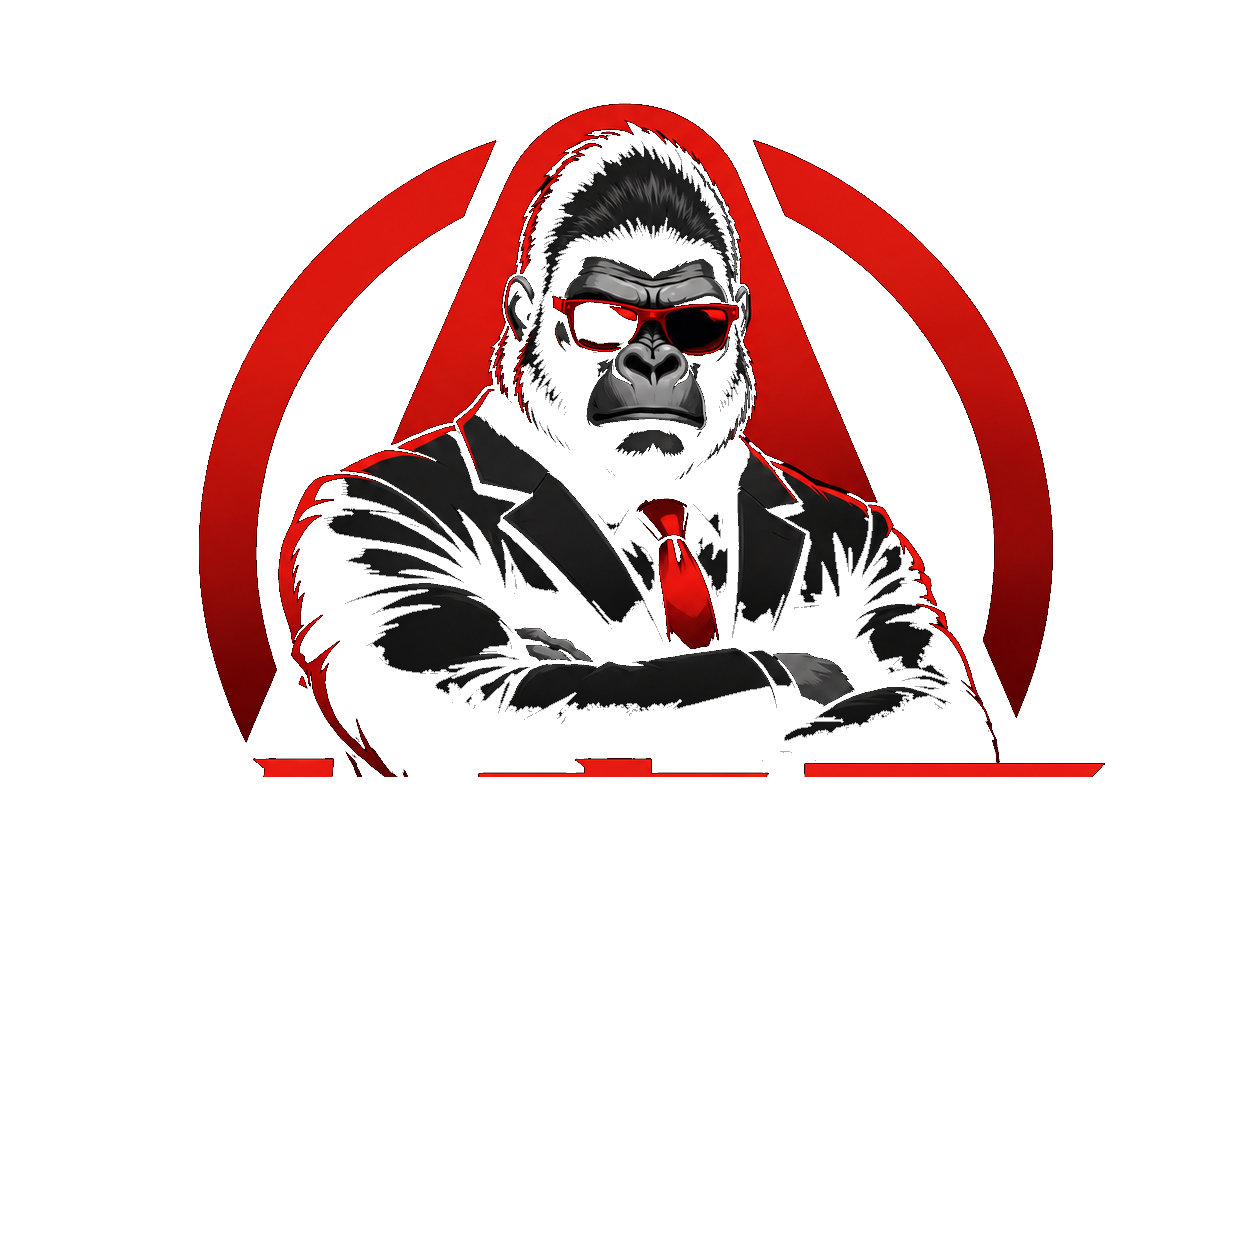
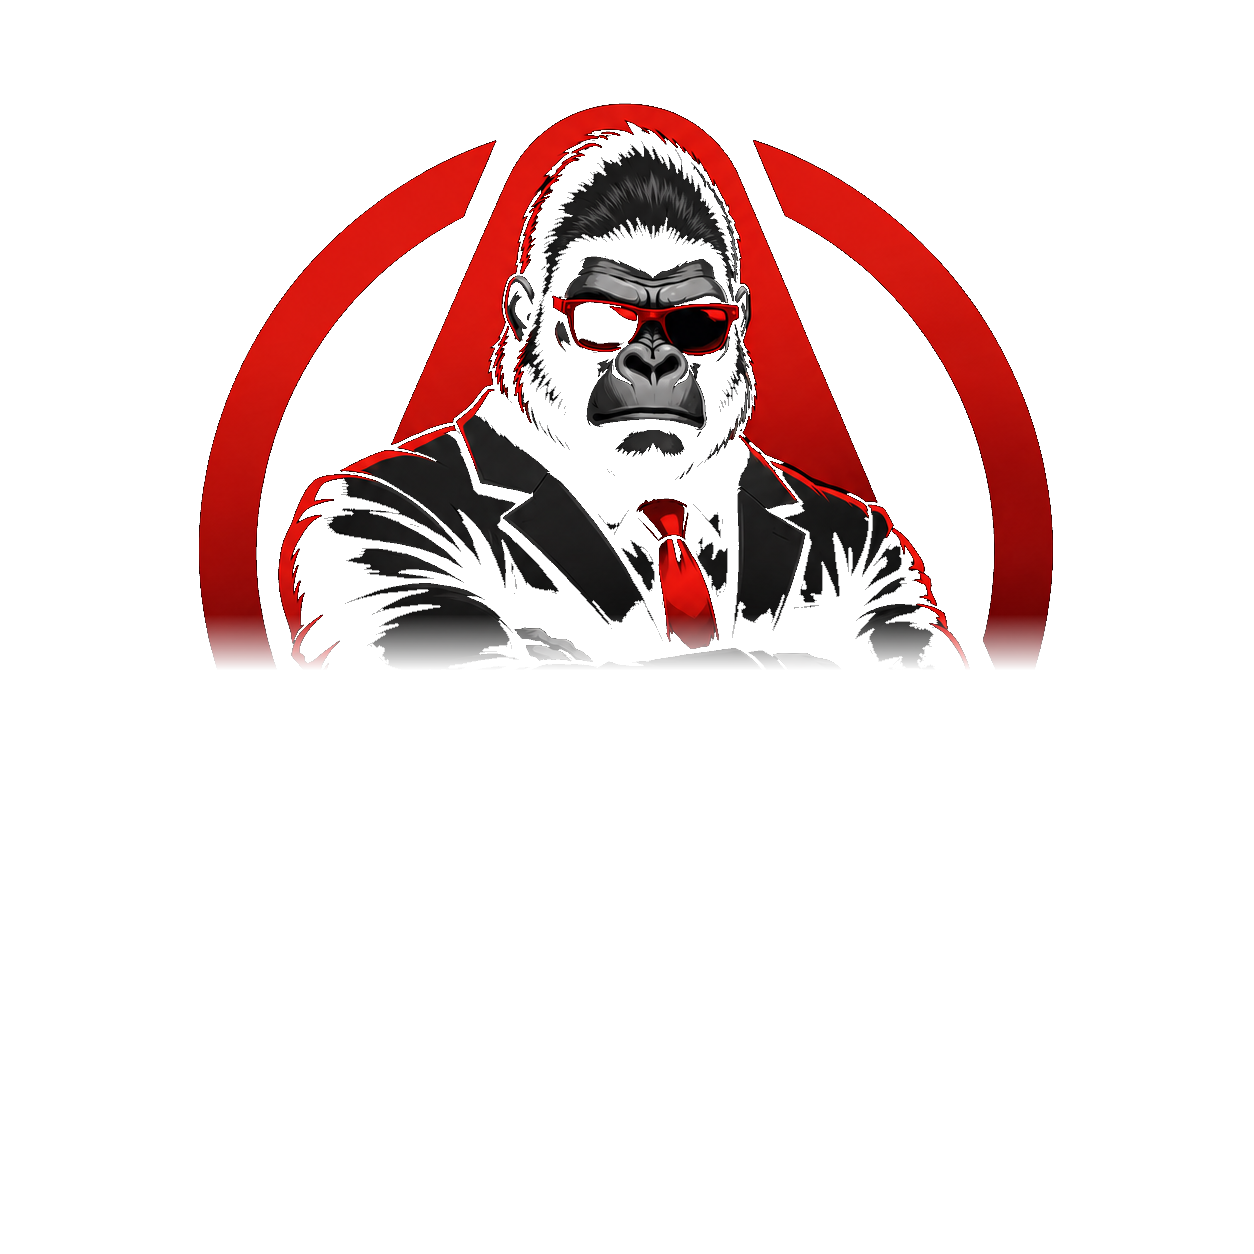
Polish finance hero copy

Changed region(s): [[0.1555, 0.4665, 0.8708, 0.622]]

diff --git a/src/styles.css b/src/styles.css
@@ -258,19 +258,25 @@ p {
   inset: 22px clamp(22px, 3vw, 48px) 42px;
 }
 
-.heroWordmark {
+.heroCopy {
   position: absolute;
   top: clamp(56px, 7vh, 96px);
   left: 0;
   z-index: 2;
   display: grid;
-  gap: 12px;
-  color: var(--accent);
-  font-size: clamp(58px, 7.6vw, 134px);
+  gap: 22px;
+  justify-items: start;
+}
+
+.heroWordmark {
+  display: grid;
+  gap: 8px;
+  color: #ffffff;
+  font-size: clamp(54px, 6.2vw, 112px);
   font-weight: 1000;
   line-height: 1.02;
   letter-spacing: 0;
-  text-shadow: 0 18px 50px rgba(255, 51, 31, 0.2);
+  text-shadow: 0 18px 50px rgba(0, 0, 0, 0.28);
 }
 
 .heroWordmark span {
@@ -278,9 +284,15 @@ p {
   white-space: nowrap;
 }
 
-.heroWordmark span:last-child {
+.heroWordmark .highlight {
+  display: inline;
+  color: var(--accent);
+  text-shadow: 0 18px 50px rgba(255, 51, 31, 0.28);
+}
+
+.heroWordmark > span:last-child {
   color: #ffffff;
-  font-size: 0.55em;
+  font-size: 0.62em;
   letter-spacing: 0.04em;
   text-shadow: 0 14px 42px rgba(0, 0, 0, 0.35);
 }
@@ -288,22 +300,18 @@ p {
 .heroLogoImage {
   position: absolute;
   right: clamp(0px, 4vw, 92px);
-  top: clamp(190px, 20vh, 260px);
+  top: clamp(250px, 26vh, 330px);
   z-index: 1;
-  width: clamp(420px, 36vw, 620px);
+  width: clamp(500px, 42vw, 720px);
   aspect-ratio: 1;
   object-fit: contain;
-  opacity: 0.28;
+  opacity: 0.3;
   filter: drop-shadow(0 28px 80px rgba(255, 51, 31, 0.16));
 }
 
 .heroMicrocopy {
-  position: absolute;
-  top: clamp(350px, 36vh, 450px);
-  left: clamp(22px, 3vw, 48px);
-  z-index: 3;
   display: grid;
-  gap: 10px;
+  gap: 8px;
   max-width: 780px;
   margin: 0;
   color: rgba(245, 247, 251, 0.78);
@@ -314,9 +322,9 @@ p {
 
 .heroMicrocopy strong {
   color: #ffffff;
-  font-size: clamp(30px, 3vw, 54px);
+  font-size: clamp(28px, 2.9vw, 50px);
   font-weight: 1000;
-  letter-spacing: 0.14em;
+  letter-spacing: 0.06em;
 }
 
 .heroMicrocopy span {
@@ -615,6 +623,7 @@ p {
   }
 
   .heroPoster,
+  .heroCopy,
   .heroWordmark,
   .heroLogoImage,
   .heroMicrocopy,
@@ -636,6 +645,10 @@ p {
 
   .heroWordmark {
     font-size: clamp(76px, 18vw, 150px);
+    white-space: normal;
+  }
+
+  .heroWordmark span {
     white-space: normal;
   }
 

diff --git a/src/App.tsx b/src/App.tsx
@@ -110,9 +110,18 @@ function App() {
 
         <div className="heroFrame contentShell">
           <div className="heroPoster">
-            <div className="heroWordmark" aria-label="金融分析师认准大表哥，万千同行的选择">
-              <span>金融分析师认准大表哥</span>
-              <span>万千同行的选择</span>
+            <div className="heroCopy">
+              <div className="heroWordmark" aria-label="搞金融就认准大表哥，万千同行的选择">
+                <span>
+                  搞金融就认准<span className="highlight">大表哥</span>
+                </span>
+                <span>万千同行的选择</span>
+              </div>
+
+              <div className="heroMicrocopy">
+                <strong>多盘后勤定制</strong>
+                <span>盘子周边定制 ｜ 工艺匠心品质 ｜ 全球仓储物流 ｜ 后勤一步到位</span>
+              </div>
             </div>
 
             <img
@@ -121,11 +130,6 @@ function App() {
               alt=""
               aria-hidden="true"
             />
-
-            <div className="heroMicrocopy">
-              <strong>多盘后勤定制</strong>
-              <span>盘子周边定制 ｜ 工艺匠心品质 ｜ 全球仓储物流 ｜ 后勤一步到位</span>
-            </div>
           </div>
 
           <div className="heroMetric">